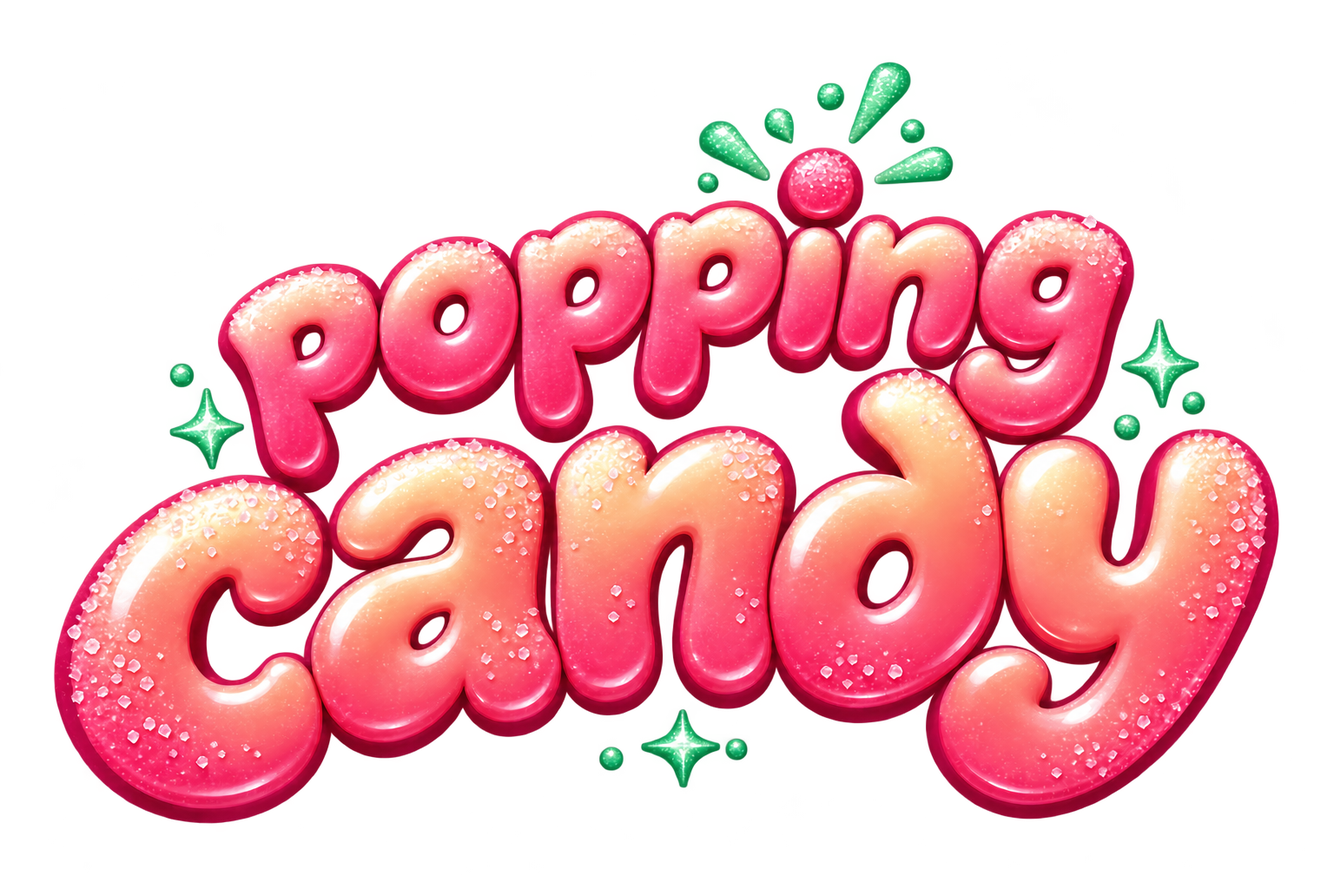
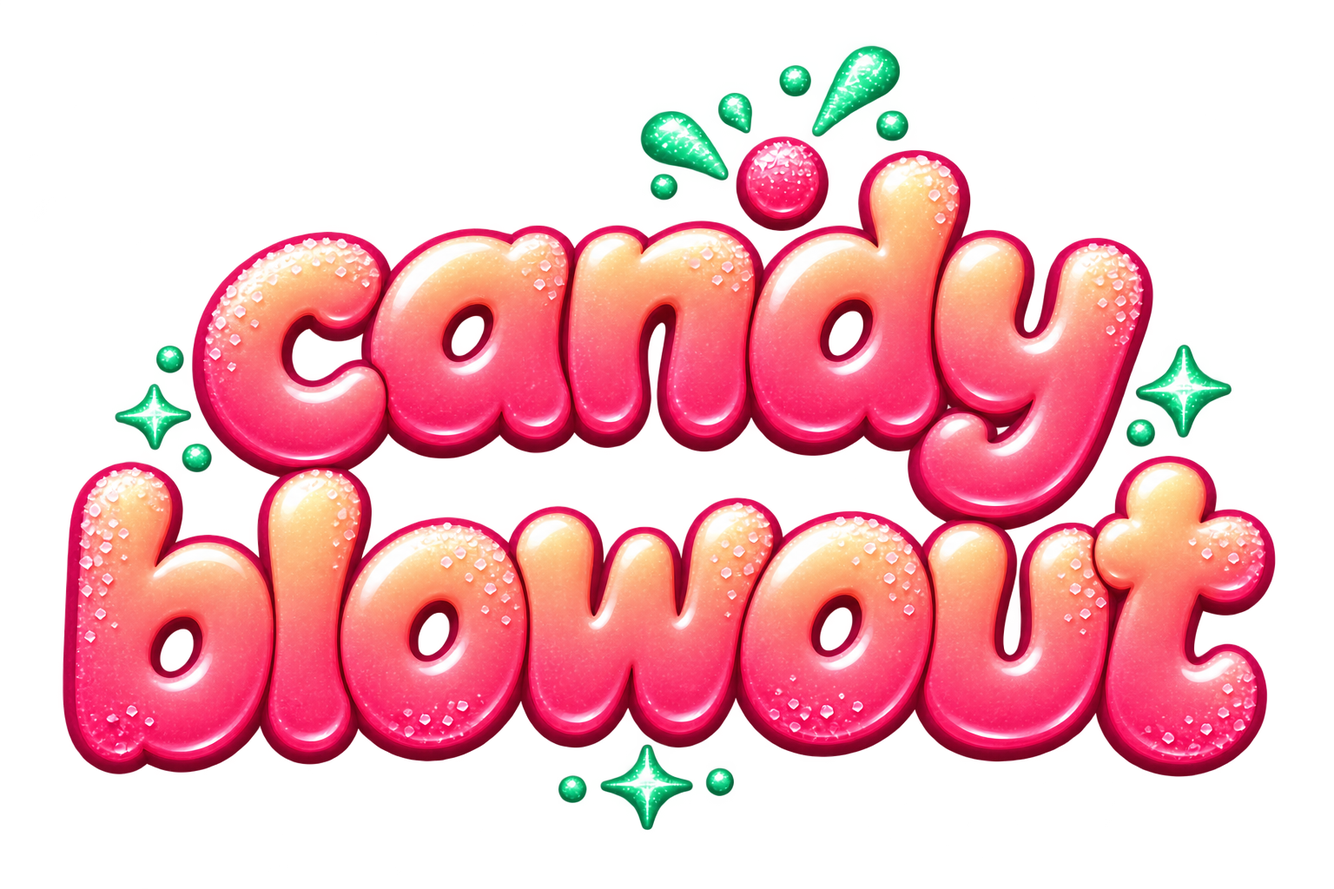
Rebrand the game website as Candy Blowout

diff --git a/privacy/index.html b/privacy/index.html
@@ -1,1 +1,1 @@
-<!doctype html><html lang="en-GB"><head><meta charset="utf-8"><meta name="viewport" content="width=device-width,initial-scale=1"><title>Popping Candy — Privacy policy</title><meta name="description" content="Popping Candy privacy policy: local progress, optional gameplay analytics, advertising choices and player support."><link rel="canonical" href="https://poppingcandy.app/privacy/"><link rel="icon" href="/assets/icon.png"><link rel="stylesheet" href="/styles.css"></head><body><a class="skip" href="#main">Skip to content</a><header><a class="brand" href="/"><img src="/assets/icon.png" width="38" height="38" alt=""><span>Popping Candy</span></a><nav aria-label="Main navigation"><a href="/">The game</a><a href="/support/">Support</a></nav></header><main class="document" id="main"><span class="eyebrow">Privacy policy · 13 November 2026</span><h1>Your choices.<br>Your little corner.</h1><p>Popping Candy is developed and published by Benjamin Colin Roy, the controller of the data described here. Contact <a href="mailto:hello@poppingcandy.app">hello@poppingcandy.app</a> for support or privacy requests. This policy covers the game and poppingcandy.app.</p><h2>Progress stays on your device</h2><p>The game stores levels, scores, settings, hints, consent choices and a limited diagnostic log locally. There is no Popping Candy account or cloud save. These records support gameplay and troubleshooting. Settings lets you export a playtest report or reset local progress. Reports are not automatically emailed to us.</p><h2>Optional gameplay analytics</h2><p>Only if you allow gameplay analytics, we send selected events to PostHog's EU-hosted service: launches, tutorial steps, puzzle attempts and outcomes, scores, chain lengths, hints, timings, settings changes, limited error codes, ad delivery/revenue callbacks, and subscription screen, purchase, restore and access-status events. Events include app/content versions, platform, major operating-system version, device category, a random installation identifier and session identifiers.</p><p>We use this information to understand difficulty, replay, retention, reliability and advertising performance. We do not send names, email addresses, precise location, free-text feedback, advertising identifiers or screen recordings to PostHog. Automatic interaction capture and session replay are not used. Network providers necessarily process an IP address when receiving a connection; we disable location enrichment for these gameplay events.</p><p>Analytics rely on your consent. You can play without them and change your choice in Settings → Usage analytics. Turning them off stops new collection and removes queued events and the local analytics identifier. It does not automatically erase events already received. A later opt-in creates a new identifier.</p><h2>Advertising and consent</h2><p>Releases with advertising use Google AdMob to show occasional ads between rounds and optional rewarded hints. We request non-personalised ads and do not request Apple's cross-app tracking permission or access the IDFA. Google's publisher first-party identifier is disabled in the production configuration.</p><p>Google's SDK may process IP-derived approximate location, device or app identifiers, ad views and interactions, diagnostic information and performance data to deliver and measure ads, prevent abuse and maintain the service. Non-personalised ads still involve data processing. Google's consent service presents the choices required for your region before ads can be requested. You can refuse optional consent; available advertising may then be limited.</p><p>Open Settings → Ad privacy choices when available to review or withdraw advertising consent. These choices are separate from gameplay analytics. See <a href="https://policies.google.com/privacy">Google's privacy policy</a> and <a href="https://policies.google.com/technologies/partner-sites">how Google uses information from apps</a> for its processing and retention practices. TestFlight builds may use demonstration ads that generate no revenue.</p><h2>Fizz Pass subscriptions</h2><p>Fizz Pass is an optional monthly subscription handled by Apple. StoreKit verifies your current entitlement on your device to remove ads and unlock unlimited hints, and lets you restore purchases or manage your subscription. We do not receive your payment-card details or Apple password. Apple processes the purchase under <a href="https://www.apple.com/legal/privacy/">its privacy policy</a>.</p><p>If you allow gameplay analytics, PostHog receives purchase or restore outcomes, whether ad-free access is active, and whether a purchase is a test, linked to the random installation identifier. We do not send Apple account details, receipts or transaction identifiers to PostHog. Buying Fizz Pass does not opt you into analytics. While verified ad-free access is active, the game does not request or display ads.</p><h2>Game Center</h2><p>If you choose to share your best score and open Game Center, we send your best score under the current game rules to Apple. Apple associates it with your Game Center profile for rankings. We do not send that profile to PostHog. Game Center is governed by <a href="https://www.apple.com/legal/privacy/">Apple's privacy policy</a> and your Apple settings.</p><h2>Support and this website</h2><p>If you email us, we receive your email address, message and any attachments you choose to send. Cloudflare Email Routing forwards incoming support mail to our support inbox hosted by Google. We use it to answer your request and troubleshoot the game, based on our legitimate interest in providing support.</p><p>This website is hosted on GitHub Pages, with Cloudflare providing domain and related infrastructure. These providers may process connection data such as IP addresses and technical logs to serve and protect the website. We add no advertising cookies, analytics scripts or tracking pixels to these pages.</p><h2>Storage, sharing and deletion</h2><p>Local game data remains until you reset it or remove the app. Queued gameplay events are capped at 1,000 and expire after seven days. PostHog stores delivered events according to the project's retention settings and service plan. Support correspondence is retained while needed to resolve enquiries and maintain relevant support records. Service providers may retain technical records for their own security or legal obligations.</p><p>We use the providers named above to operate the game, measure optional gameplay analytics, deliver advertising and respond to support. Providers may process data internationally; their published privacy terms describe applicable transfer safeguards. We do not sell gameplay analytics or use it to build cross-app advertising profiles.</p><p>You may ask for access, correction or deletion of personal data we hold, withdraw consent, or raise a concern using the contact address above. Because gameplay analytics use random identifiers, we may need your help identifying relevant records; we will not ask for your Apple password. You may also complain to your local data-protection authority, including the <a href="https://ico.org.uk/make-a-complaint/">UK Information Commissioner's Office</a>.</p><h2>Audience and changes</h2><p>Popping Candy is intended for a general teen and adult audience, not specifically for children. If you believe a child has supplied personal information to us, contact us so we can investigate. We update this policy when the game's data practices change and show the revision date above.</p></main><footer><span>© 2026 Benjamin Colin Roy · Popping Candy</span><nav aria-label="Footer"><a href="/">The game</a><a href="/support/">Support</a><a href="mailto:hello@poppingcandy.app">Contact</a></nav></footer></body></html>
+<!doctype html><html lang="en-GB"><head><meta charset="utf-8"><meta name="viewport" content="width=device-width,initial-scale=1"><title>Candy Blowout — Privacy policy</title><meta name="description" content="Candy Blowout privacy policy: local progress, optional gameplay analytics, advertising choices and player support."><link rel="canonical" href="https://candyblowout.app/privacy/"><link rel="icon" href="/assets/icon.png"><link rel="stylesheet" href="/styles.css"></head><body><a class="skip" href="#main">Skip to content</a><header><a class="brand" href="/"><img src="/assets/icon.png" width="38" height="38" alt=""><span>Candy Blowout</span></a><nav aria-label="Main navigation"><a href="/">The game</a><a href="/support/">Support</a></nav></header><main class="document" id="main"><span class="eyebrow">Privacy policy · 13 November 2026</span><h1>Your choices.<br>Your little corner.</h1><p>Candy Blowout is developed and published by Benjamin Colin Roy, the controller of the data described here. Contact <a href="mailto:hello@poppingcandy.app">hello@poppingcandy.app</a> for support or privacy requests. This policy covers Candy Blowout (previously Popping Candy), candyblowout.app and poppingcandy.app.</p><h2>Progress stays on your device</h2><p>The game stores levels, scores, settings, hints, consent choices and a limited diagnostic log locally. There is no Candy Blowout account or cloud save. These records support gameplay and troubleshooting. Settings lets you export a playtest report or reset local progress. Reports are not automatically emailed to us.</p><h2>Optional gameplay analytics</h2><p>Only if you allow gameplay analytics, we send selected events to PostHog's EU-hosted service: launches, tutorial steps, puzzle attempts and outcomes, scores, chain lengths, hints, timings, settings changes, limited error codes, ad delivery/revenue callbacks, and subscription screen, purchase, restore and access-status events. Events include app/content versions, platform, major operating-system version, device category, a random installation identifier and session identifiers.</p><p>We use this information to understand difficulty, replay, retention, reliability and advertising performance. We do not send names, email addresses, precise location, free-text feedback, advertising identifiers or screen recordings to PostHog. Automatic interaction capture and session replay are not used. Network providers necessarily process an IP address when receiving a connection; we disable location enrichment for these gameplay events.</p><p>Analytics rely on your consent. You can play without them and change your choice in Settings → Usage analytics. Turning them off stops new collection and removes queued events and the local analytics identifier. It does not automatically erase events already received. A later opt-in creates a new identifier.</p><h2>Advertising and consent</h2><p>Releases with advertising use Google AdMob to show occasional ads between rounds and optional rewarded hints. We request non-personalised ads and do not request Apple's cross-app tracking permission or access the IDFA. Google's publisher first-party identifier is disabled in the production configuration.</p><p>Google's SDK may process IP-derived approximate location, device or app identifiers, ad views and interactions, diagnostic information and performance data to deliver and measure ads, prevent abuse and maintain the service. Non-personalised ads still involve data processing. Google's consent service presents the choices required for your region before ads can be requested. You can refuse optional consent; available advertising may then be limited.</p><p>Open Settings → Ad privacy choices when available to review or withdraw advertising consent. These choices are separate from gameplay analytics. See <a href="https://policies.google.com/privacy">Google's privacy policy</a> and <a href="https://policies.google.com/technologies/partner-sites">how Google uses information from apps</a> for its processing and retention practices. TestFlight builds may use demonstration ads that generate no revenue.</p><h2>Fizz Pass subscriptions</h2><p>Fizz Pass is an optional monthly subscription handled by Apple. StoreKit verifies your current entitlement on your device to remove ads and unlock unlimited hints, and lets you restore purchases or manage your subscription. We do not receive your payment-card details or Apple password. Apple processes the purchase under <a href="https://www.apple.com/legal/privacy/">its privacy policy</a>.</p><p>If you allow gameplay analytics, PostHog receives purchase or restore outcomes, whether ad-free access is active, and whether a purchase is a test, linked to the random installation identifier. We do not send Apple account details, receipts or transaction identifiers to PostHog. Buying Fizz Pass does not opt you into analytics. While verified ad-free access is active, the game does not request or display ads.</p><h2>Game Center</h2><p>If you choose to share your best score and open Game Center, we send your best score under the current game rules to Apple. Apple associates it with your Game Center profile for rankings. We do not send that profile to PostHog. Game Center is governed by <a href="https://www.apple.com/legal/privacy/">Apple's privacy policy</a> and your Apple settings.</p><h2>Support and this website</h2><p>If you email us, we receive your email address, message and any attachments you choose to send. Cloudflare Email Routing forwards incoming support mail to our support inbox hosted by Google. We use it to answer your request and troubleshoot the game, based on our legitimate interest in providing support.</p><p>This website is hosted on GitHub Pages, with Cloudflare providing domain and related infrastructure. These providers may process connection data such as IP addresses and technical logs to serve and protect the website. We add no advertising cookies, analytics scripts or tracking pixels to these pages.</p><h2>Storage, sharing and deletion</h2><p>Local game data remains until you reset it or remove the app. Queued gameplay events are capped at 1,000 and expire after seven days. PostHog stores delivered events according to the project's retention settings and service plan. Support correspondence is retained while needed to resolve enquiries and maintain relevant support records. Service providers may retain technical records for their own security or legal obligations.</p><p>We use the providers named above to operate the game, measure optional gameplay analytics, deliver advertising and respond to support. Providers may process data internationally; their published privacy terms describe applicable transfer safeguards. We do not sell gameplay analytics or use it to build cross-app advertising profiles.</p><p>You may ask for access, correction or deletion of personal data we hold, withdraw consent, or raise a concern using the contact address above. Because gameplay analytics use random identifiers, we may need your help identifying relevant records; we will not ask for your Apple password. You may also complain to your local data-protection authority, including the <a href="https://ico.org.uk/make-a-complaint/">UK Information Commissioner's Office</a>.</p><h2>Audience and changes</h2><p>Candy Blowout is intended for a general teen and adult audience, not specifically for children. If you believe a child has supplied personal information to us, contact us so we can investigate. We update this policy when the game's data practices change and show the revision date above.</p></main><footer><span>© 2026 Benjamin Colin Roy · Candy Blowout</span><nav aria-label="Footer"><a href="/">The game</a><a href="/support/">Support</a><a href="mailto:hello@poppingcandy.app">Contact</a></nav></footer></body></html>

diff --git a/support/index.html b/support/index.html
@@ -1,1 +1,1 @@
-<!doctype html><html lang="en-GB"><head><meta charset="utf-8"><meta name="viewport" content="width=device-width,initial-scale=1"><title>Popping Candy — Player support</title><meta name="description" content="How to play Popping Candy, understand your score, manage privacy choices and contact player support."><link rel="canonical" href="https://poppingcandy.app/support/"><link rel="icon" href="/assets/icon.png"><link rel="stylesheet" href="/styles.css"></head><body><a class="skip" href="#main">Skip to content</a><header><a class="brand" href="/"><img src="/assets/icon.png" width="38" height="38" alt=""><span>Popping Candy</span></a><nav aria-label="Main navigation"><a href="/">The game</a><a href="/privacy/">Privacy</a></nav></header><main class="document" id="main"><span class="eyebrow">Player support</span><h1>Keep the fizz flowing.</h1><p class="lede">Need a hand? Email <a href="mailto:hello@poppingcandy.app">hello@poppingcandy.app</a>.</p><div class="note">Popping Candy is currently being prepared for its first App Store release. TestFlight builds may show test adverts and features can change before launch.</div><h2>How do I play?</h2><ol><li>Tap three empty spaces to place your poppers.</li><li>Tap a placed popper to choose which one starts the chain. Undo lets you change your arrangement before firing.</li><li>Press POP. A blast can trigger other poppers and fizzy crystals. Obstacles stop it.</li><li>Clear the sweet goal to move forward. Replay a board to try a better route.</li></ol><p>Open Settings → How to play to revisit the introduction. There is no countdown while you plan.</p><h2>How does scoring work?</h2><p>Each cleared sweet scores points. The wave multiplier grows from ×1 to ×2, ×4, ×8 and onward, up to ×64. Connected explosions add a chain bonus. “This round” and “Sweet goal” show the current attempt and reset when a new board starts; total points and personal records remain saved.</p><h2>Where are my scores and progress?</h2><p>The trophy button opens your records. Progress is stored on this device, with no Popping Candy account or cloud-save service. Deleting the app or resetting progress can remove local saves. Game Center rankings, when available, use your Apple Game Center account and are separate from your local progress.</p><h2>How do ads and hints work?</h2><p>Ads may appear between completed rounds, with a gap between them. An optional rewarded ad can provide a hint when available. Ads need an internet connection and may be unavailable; ordinary gameplay remains available. Test adverts do not generate revenue. Fizz Pass removes these ads and unlocks unlimited full-chain hints while your subscription is active.</p><h2>How does Fizz Pass work?</h2><p>Open Settings → Go ad-free · Fizz Pass to see the monthly subscription and Apple’s local price before buying. The UK price is £2.99 per month. Fizz Pass removes between-round ads and lets you use full-chain hints without watching rewarded ads. It renews automatically unless cancelled at least 24 hours before the current period ends. There is no free trial.</p><p>Restore purchases is available in Settings and on the Fizz Pass screen. Use the same Apple account that bought the subscription. To manage or cancel, use Manage subscription in the game, or iPhone Settings → your Apple Account → Subscriptions. Cancelling renewal keeps access for the remaining paid period. If a subscription expires or is revoked, free play and its normal advertising return. Local game progress is retained.</p><p>Purchases and billing are handled by Apple. TestFlight purchases use Apple’s test environment and do not create a paid production subscription. Terms: <a href="https://www.apple.com/legal/internet-services/itunes/dev/stdeula/">Apple Standard End User License Agreement</a>. For billing help or a refund request, use <a href="https://reportaproblem.apple.com/">Apple’s purchase support</a>.</p><h2>Can I change privacy choices?</h2><p>In Settings, choose “Usage analytics” to allow or turn off gameplay analytics. “Ad privacy choices” appears when Google's consent service requires it for your region. Turning gameplay analytics off does not change your separate ad privacy choices. Read the <a href="/privacy/">privacy policy</a> for details.</p><h2>Something is wrong</h2><p>Email your app version (shown in Settings), device model, iOS version, and the steps that led to the problem. A screenshot is helpful. Never include passwords, payment information or Apple verification codes. You can optionally export a playtest report from Settings and inspect it before sharing.</p><p>If a score stays at zero throughout an explosion, include the level number and whether you are using a TestFlight build. If an advert fails to load, you should still be able to continue playing.</p></main><footer><span>© 2026 Benjamin Colin Roy · Popping Candy</span><nav aria-label="Footer"><a href="/">The game</a><a href="/privacy/">Privacy</a><a href="mailto:hello@poppingcandy.app">Contact</a></nav></footer></body></html>
+<!doctype html><html lang="en-GB"><head><meta charset="utf-8"><meta name="viewport" content="width=device-width,initial-scale=1"><title>Candy Blowout — Player support</title><meta name="description" content="How to play Candy Blowout, understand your score, manage privacy choices and contact player support."><link rel="canonical" href="https://candyblowout.app/support/"><link rel="icon" href="/assets/icon.png"><link rel="stylesheet" href="/styles.css"></head><body><a class="skip" href="#main">Skip to content</a><header><a class="brand" href="/"><img src="/assets/icon.png" width="38" height="38" alt=""><span>Candy Blowout</span></a><nav aria-label="Main navigation"><a href="/">The game</a><a href="/privacy/">Privacy</a></nav></header><main class="document" id="main"><span class="eyebrow">Player support</span><h1>Keep the fizz flowing.</h1><p class="lede">Need a hand? Email <a href="mailto:hello@poppingcandy.app">hello@poppingcandy.app</a>.</p><div class="note">Candy Blowout is currently being prepared for its first App Store release. TestFlight builds may show test adverts and features can change before launch.</div><h2>How do I play?</h2><ol><li>Tap three empty spaces to place your poppers.</li><li>Tap a placed popper to choose which one starts the chain. Undo lets you change your arrangement before firing.</li><li>Press POP. A blast can trigger other poppers and fizzy crystals. Obstacles stop it.</li><li>Clear the sweet goal to move forward. Replay a board to try a better route.</li></ol><p>Open Settings → How to play to revisit the introduction. There is no countdown while you plan.</p><h2>How does scoring work?</h2><p>Each cleared sweet scores points. The wave multiplier grows from ×1 to ×2, ×4, ×8 and onward, up to ×64. Connected explosions add a chain bonus. “This round” and “Sweet goal” show the current attempt and reset when a new board starts; total points and personal records remain saved.</p><h2>Where are my scores and progress?</h2><p>The trophy button opens your records. Progress is stored on this device, with no Candy Blowout account or cloud-save service. Deleting the app or resetting progress can remove local saves. Game Center rankings, when available, use your Apple Game Center account and are separate from your local progress.</p><h2>How do ads and hints work?</h2><p>Ads may appear between completed rounds, with a gap between them. An optional rewarded ad can provide a hint when available. Ads need an internet connection and may be unavailable; ordinary gameplay remains available. Test adverts do not generate revenue. Fizz Pass removes these ads and unlocks unlimited full-chain hints while your subscription is active.</p><h2>How does Fizz Pass work?</h2><p>Open Settings → Go ad-free · Fizz Pass to see the monthly subscription and Apple’s local price before buying. The UK price is £2.99 per month. Fizz Pass removes between-round ads and lets you use full-chain hints without watching rewarded ads. It renews automatically unless cancelled at least 24 hours before the current period ends. There is no free trial.</p><p>Restore purchases is available in Settings and on the Fizz Pass screen. Use the same Apple account that bought the subscription. To manage or cancel, use Manage subscription in the game, or iPhone Settings → your Apple Account → Subscriptions. Cancelling renewal keeps access for the remaining paid period. If a subscription expires or is revoked, free play and its normal advertising return. Local game progress is retained.</p><p>Purchases and billing are handled by Apple. TestFlight purchases use Apple’s test environment and do not create a paid production subscription. Terms: <a href="https://www.apple.com/legal/internet-services/itunes/dev/stdeula/">Apple Standard End User License Agreement</a>. For billing help or a refund request, use <a href="https://reportaproblem.apple.com/">Apple’s purchase support</a>.</p><h2>Can I change privacy choices?</h2><p>In Settings, choose “Usage analytics” to allow or turn off gameplay analytics. “Ad privacy choices” appears when Google's consent service requires it for your region. Turning gameplay analytics off does not change your separate ad privacy choices. Read the <a href="/privacy/">privacy policy</a> for details.</p><h2>Something is wrong</h2><p>Email your app version (shown in Settings), device model, iOS version, and the steps that led to the problem. A screenshot is helpful. Never include passwords, payment information or Apple verification codes. You can optionally export a playtest report from Settings and inspect it before sharing.</p><p>If a score stays at zero throughout an explosion, include the level number and whether you are using a TestFlight build. If an advert fails to load, you should still be able to continue playing.</p></main><footer><span>© 2026 Benjamin Colin Roy · Candy Blowout</span><nav aria-label="Footer"><a href="/">The game</a><a href="/privacy/">Privacy</a><a href="mailto:hello@poppingcandy.app">Contact</a></nav></footer></body></html>

diff --git a/index.html b/index.html
@@ -1,1 +1,1 @@
-<!doctype html><html lang="en-GB"><head><meta charset="utf-8"><meta name="viewport" content="width=device-width,initial-scale=1"><title>Popping Candy — Three poppers. One huge chain reaction.</title><meta name="description" content="Place three poppers, connect fizzy sweets and spark spectacular chain reactions. Popping Candy is an original puzzle game coming to iPhone and iPad."><link rel="canonical" href="https://poppingcandy.app/"><link rel="icon" href="/assets/icon.png"><link rel="stylesheet" href="/styles.css"><meta property="og:title" content="Popping Candy"><meta property="og:description" content="Three poppers. One huge chain reaction."><meta property="og:image" content="https://poppingcandy.app/assets/wordmark.png"><meta property="og:url" content="https://poppingcandy.app/"><meta name="theme-color" content="#15082d"></head><body><a class="skip" href="#main">Skip to content</a><header><a class="brand" href="/"><img src="/assets/icon.png" alt="" width="38" height="38"><span>Popping Candy</span></a><nav aria-label="Main navigation"><a href="/support/">Support</a><a href="/privacy/">Privacy</a></nav></header><main id="main"><section class="hero"><div class="hero-inner"><div class="hero-copy"><span class="eyebrow">An original chain-reaction puzzle</span><h1>Three poppers.<br>One huge<br><em>chain reaction.</em></h1><p class="lede">Find the spark. Connect the fizzy sweets. Turn a clever little move into a glorious, screen-filling pop.</p><div class="actions"><span class="pill">Coming to iPhone &amp; iPad</span><a href="#how" class="cta">Meet your next puzzle ↓</a></div></div><div class="hero-art"><img class="wordmark" src="/assets/wordmark.png" alt="Popping Candy" width="1024" height="1024"></div></div></section><section class="section" id="how"><span class="eyebrow">Small board. Big possibilities.</span><h2>Think it through. Then let it pop.</h2><div class="steps"><article class="card"><span class="number">01 / PLACE</span><h3>Pick your three spots.</h3><p>Place three poppers in empty spaces on the 7 × 7 board. Obstacles block the blast, so every position matters.</p></article><article class="card"><span class="number">02 / CONNECT</span><h3>Follow the fizz.</h3><p>Choose the first popper to fire. Fizzy crystals carry the explosion onward, linking paths through the sweets.</p></article><article class="card"><span class="number">03 / POP</span><h3>Make the chain count.</h3><p>Later waves multiply your points. Clear the sweet goal, beat your best, and discover what one better placement can do.</p></article></div></section><section class="section strip" aria-label="Game features"><div><strong>Sweet Journey</strong><span>Learn the spark. Master the chain.</span></div><div><strong>Daily Mix</strong><span>A fresh shared puzzle every day.</span></div><div><strong>Your own pace</strong><span>Plan without a countdown.</span></div></section><section class="section"><h2>A little help with the fizz?</h2><p>Find playing tips, privacy choices and a direct line to the developer.</p><a class="cta" href="/support/">Visit player support</a></section></main><footer><span>© 2026 Benjamin Colin Roy · Popping Candy</span><nav aria-label="Footer"><a href="/support/">Support</a><a href="/privacy/">Privacy</a><a href="mailto:hello@poppingcandy.app">Contact</a></nav></footer></body></html>
+<!doctype html><html lang="en-GB"><head><meta charset="utf-8"><meta name="viewport" content="width=device-width,initial-scale=1"><title>Candy Blowout — Three poppers. One huge chain reaction.</title><meta name="description" content="Place three poppers, connect fizzy sweets and spark spectacular chain reactions. Candy Blowout is an original puzzle game coming to iPhone and iPad."><link rel="canonical" href="https://candyblowout.app/"><link rel="icon" href="/assets/icon.png"><link rel="stylesheet" href="/styles.css"><meta property="og:title" content="Candy Blowout"><meta property="og:description" content="Three poppers. One huge chain reaction."><meta property="og:image" content="https://candyblowout.app/assets/wordmark.png"><meta property="og:url" content="https://candyblowout.app/"><meta name="theme-color" content="#15082d"></head><body><a class="skip" href="#main">Skip to content</a><header><a class="brand" href="/"><img src="/assets/icon.png" alt="" width="38" height="38"><span>Candy Blowout</span></a><nav aria-label="Main navigation"><a href="/support/">Support</a><a href="/privacy/">Privacy</a></nav></header><main id="main"><section class="hero"><div class="hero-inner"><div class="hero-copy"><span class="eyebrow">An original chain-reaction puzzle</span><h1>Three poppers.<br>One huge<br><em>chain reaction.</em></h1><p class="lede">Find the spark. Connect the fizzy sweets. Turn a clever little move into a glorious, screen-filling pop.</p><div class="actions"><span class="pill">Coming to iPhone &amp; iPad</span><a href="#how" class="cta">Meet your next puzzle ↓</a></div></div><div class="hero-art"><img class="wordmark" src="/assets/wordmark.png" alt="Candy Blowout" width="1024" height="1024"></div></div></section><section class="section" id="how"><span class="eyebrow">Small board. Big possibilities.</span><h2>Think it through. Then let it pop.</h2><div class="steps"><article class="card"><span class="number">01 / PLACE</span><h3>Pick your three spots.</h3><p>Place three poppers in empty spaces on the 7 × 7 board. Obstacles block the blast, so every position matters.</p></article><article class="card"><span class="number">02 / CONNECT</span><h3>Follow the fizz.</h3><p>Choose the first popper to fire. Fizzy crystals carry the explosion onward, linking paths through the sweets.</p></article><article class="card"><span class="number">03 / POP</span><h3>Make the chain count.</h3><p>Later waves multiply your points. Clear the sweet goal, beat your best, and discover what one better placement can do.</p></article></div></section><section class="section strip" aria-label="Game features"><div><strong>Sweet Journey</strong><span>Learn the spark. Master the chain.</span></div><div><strong>Daily Mix</strong><span>A fresh shared puzzle every day.</span></div><div><strong>Your own pace</strong><span>Plan without a countdown.</span></div></section><section class="section"><h2>A little help with the fizz?</h2><p>Find playing tips, privacy choices and a direct line to the developer.</p><a class="cta" href="/support/">Visit player support</a></section></main><footer><span>© 2026 Benjamin Colin Roy · Candy Blowout</span><nav aria-label="Footer"><a href="/support/">Support</a><a href="/privacy/">Privacy</a><a href="mailto:hello@poppingcandy.app">Contact</a></nav></footer></body></html>
